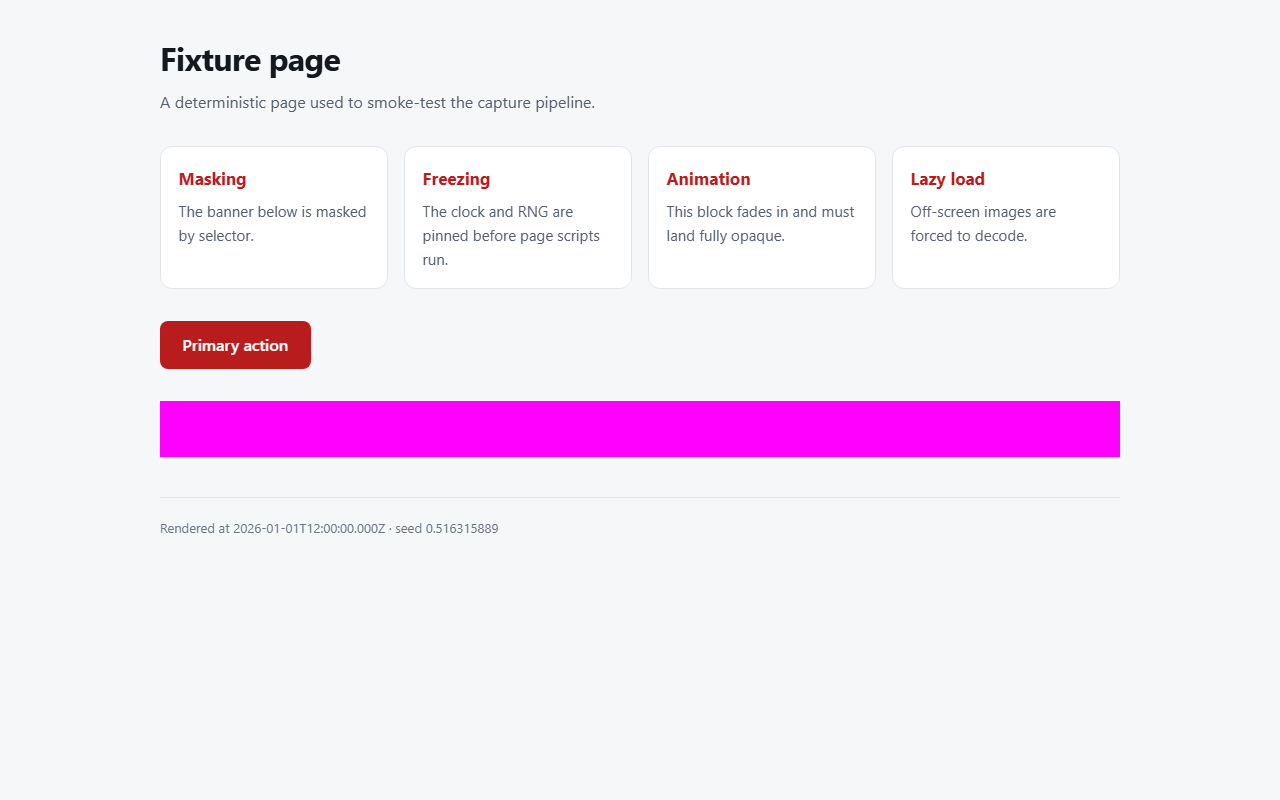
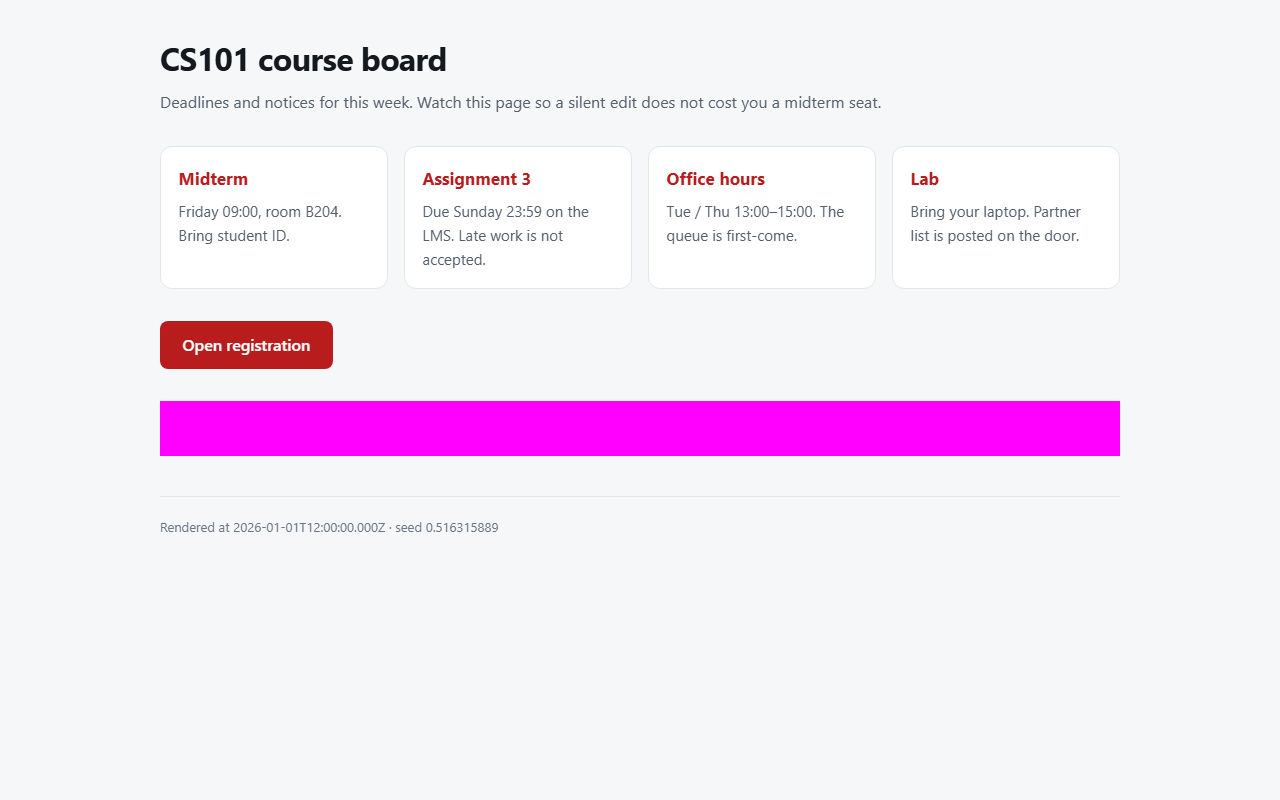
Reframe the project around course boards and exam notices.

diff --git a/dev/fixture.html b/dev/fixture.html
@@ -3,7 +3,7 @@
 <head>
 <meta charset="utf-8">
 <meta name="viewport" content="width=device-width, initial-scale=1">
-<title>vwatch fixture</title>
+<title>CS101 course board</title>
 <style>
   * { box-sizing: border-box; }
   body {
@@ -43,23 +43,23 @@
 <body>
 <div class="page">
   <header>
-    <h1>Fixture page</h1>
-    <p class="lede">A deterministic page used to smoke-test the capture pipeline.</p>
+    <h1>CS101 course board</h1>
+    <p class="lede">Deadlines and notices for this week. Watch this page so a silent edit does not cost you a midterm seat.</p>
   </header>
 
   <div class="fade">
     <div class="cards">
-      <div class="card"><h2>Masking</h2><p>The banner below is masked by selector.</p></div>
-      <div class="card"><h2>Freezing</h2><p>The clock and RNG are pinned before page scripts run.</p></div>
-      <div class="card"><h2>Animation</h2><p>This block fades in and must land fully opaque.</p></div>
-      <div class="card"><h2>Lazy load</h2><p>Off-screen images are forced to decode.</p></div>
+      <div class="card"><h2>Midterm</h2><p>Friday 09:00, room B204. Bring student ID.</p></div>
+      <div class="card"><h2>Assignment 3</h2><p>Due Sunday 23:59 on the LMS. Late work is not accepted.</p></div>
+      <div class="card"><h2>Office hours</h2><p>Tue / Thu 13:00–15:00. The queue is first-come.</p></div>
+      <div class="card"><h2>Lab</h2><p>Bring your laptop. Partner list is posted on the door.</p></div>
     </div>
   </div>
 
-  <a class="cta" href="#">Primary action</a>
+  <a class="cta" href="#">Open registration</a>
 
   <div class="banner" id="volatile">
-    Volatile row — masked in <code>local.yaml</code>: <span id="ticket"></span>
+    Live seat count — masked so a ticking number is not a false alarm: <span id="ticket"></span>
   </div>
 
   <footer>

diff --git a/docs/index.html b/docs/index.html
@@ -90,7 +90,7 @@
 <div class="wrap">
   <h1>Visual watchdog</h1>
   <p class="meta">
-    2026-09-05 16:08 UTC &middot; 1 comparison
+    2026-09-05 16:50 UTC &middot; 1 comparison
 &middot; 1 needing attention  </p>
 
   <ul class="tally">
@@ -110,13 +110,13 @@
     <p class="url"><a href="http://127.0.0.1:8931/fixture.html" target="_blank" rel="noreferrer">http://127.0.0.1:8931/fixture.html</a></p>
 
     <dl class="stats">
-      <div><dt>SSIM</dt><dd>0.9991</dd></div>
-      <div><dt>Changed area</dt><dd>0.98%</dd></div>
+      <div><dt>SSIM</dt><dd>0.9990</dd></div>
+      <div><dt>Changed area</dt><dd>1.07%</dd></div>
       <div><dt>Vertical shift</dt><dd>0 px</dd></div>
       <div><dt>Height delta</dt><dd>0 px</dd></div>
-      <div><dt>Regions</dt><dd>6</dd></div>
+      <div><dt>Regions</dt><dd>5</dd></div>
     </dl>
-    <p class="note">6 changed regions</p>
+    <p class="note">5 changed regions</p>
 
     <div class="frames">
       <figure>

diff --git a/dev/change.css b/dev/change.css
@@ -1,4 +1,4 @@
-/* A change a designer might ship: restyle the primary button and the card
+/* A course-page edit: restyle the registration button and the notice
    headings. Applied at capture time via --inject-css so the fixture file
    itself stays untouched and the demo stays reproducible. */
 .cta {

diff --git a/README.md b/README.md
@@ -1,16 +1,17 @@
 # visual-watchdog
 
-Screenshot a set of web pages on a schedule, compare each against an approved
-baseline, and get a visual report of anything that actually changed — without
-drowning in false alarms from animations, web fonts, or content that shifts a
-few pixels.
+A student tool for pages that change without telling you: the course board,
+the exam timetable, registration, office hours. Point it at those URLs, and it
+screenshots them on a schedule and shows you *what actually moved* — so a
+quiet edit to the midterm room does not get lost in a carousel or a “2 minutes
+ago” timestamp.
 
 ![A rendered diff: unchanged content is greyed out, the five changed elements
 are boxed in red, and a known-dynamic banner is masked out entirely](assets/demo-diff.png)
 
-*Baseline vs. a change a designer might ship. The four card headings and the
-button were recoloured; the watchdog greys out everything untouched, boxes the
-five real changes, and ignores the masked banner (the grey bar) completely.*
+*A course-board edit: headings and the registration button changed colour.
+Unchanged content is greyed out, the real edits are boxed, and the live seat
+counter (the grey bar) is masked so it never counts as a change.*
 
 ## Why this is harder than "diff two PNGs"
 
@@ -94,8 +95,10 @@ onion-skin slider that blends between baseline and current.
 
 ## Configuring targets
 
-`targets.yaml` lists the pages to watch. Anything under `defaults` applies to
-every page unless that page overrides it.
+`targets.yaml` lists the pages to watch — your course board, exam timetable,
+registration page. The bundled examples are public course-reading pages so the
+repo runs without a campus login. Swap them for your faculty URLs. Anything
+under `defaults` applies to every page unless that page overrides it.
 
 ```yaml
 defaults:
@@ -168,8 +171,8 @@ python -m vwatch -c demo.yaml compare
 ```
 
 `--inject-css` restyles the page at capture time without touching the fixture,
-which is also a handy way to see what a real change would look like in the
-report before it ships.
+which is how you preview “the registrar recoloured the register button” before
+it happens on a live page.
 
 ## Continuous integration
 
@@ -212,8 +215,9 @@ workflow are pinned together — bump them in lockstep.
 
 ## Limitations and future work
 
-- **Authenticated pages** aren't supported yet; every target is fetched
-  anonymously. A stored-session option is the obvious next step.
+- **Campus logins (LMS, student portal)** aren't supported yet; every target is
+  fetched anonymously. A stored-session option is the next step for Moodle /
+  Google Classroom / registrar pages behind SSO.
 - **Page discovery is manual** — you list URLs. Crawling a site to find pages
   automatically would scale it up.
 - **No history** — each run compares against one baseline. Keeping a timeline of

diff --git a/docs/summary.md b/docs/summary.md
@@ -1,0 +1,7 @@
+### Visual watchdog — 1 of 1 need review
+
+🟢 0 unchanged · 🟡 0 shifted · 🔴 1 changed · 🔵 0 new · 🟣 0 error
+
+| | Page | Viewport | SSIM | Changed | Notes |
+| :-- | :-- | :-- | --: | --: | :-- |
+| 🔴 changed | fixture | desktop | 0.9990 | 1.07% | 5 changed regions |
